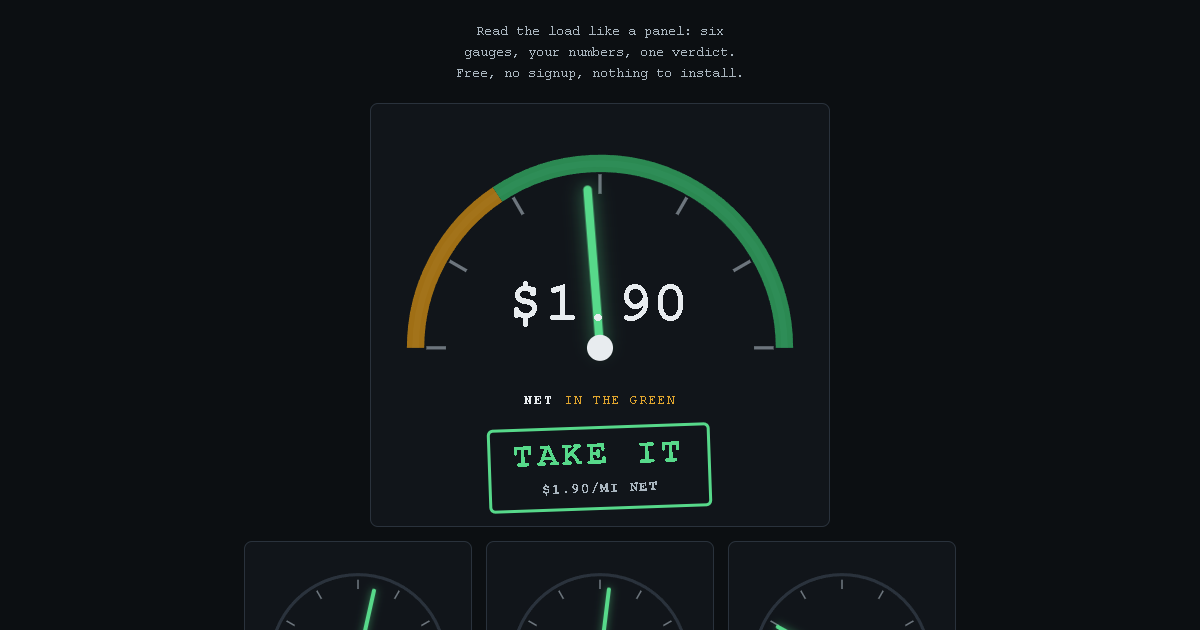
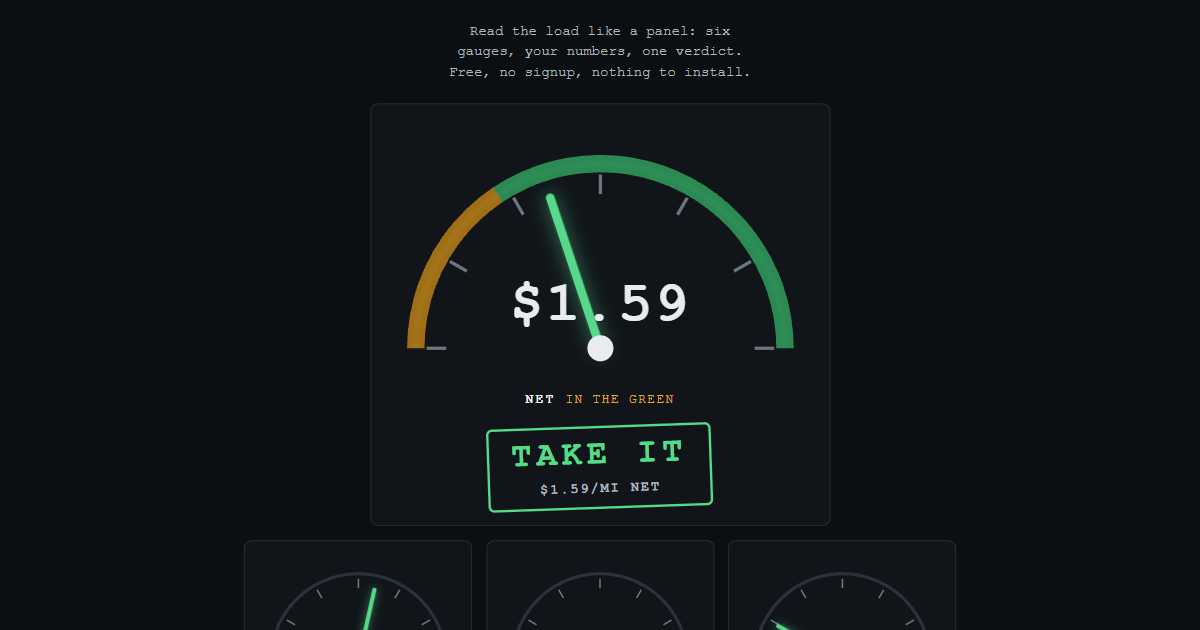
feat(hotshot): re-base page examples on $6.28 diesel (EIA, week of Oct 19, 2026)
Stacks work/hotshot-weight-rates-20261025 and work/hotshot-ifta-worksheet-20261025
(merge conflicts were additive: both appended tools/tests/sources; resolved
by keeping both, plus restoring two closing braces git dropped at the seam).

- Panel and guide example (540 mi @ $2.85, 80 deadhead, 8.4 mpg, $45 tolls,
  3%): fuel $463.52, net $984.31, $1.59/mi net (was $269.40 / $1,178.43 /
  $1.90 at $3.65). Flag text and fuel placeholder follow.
- Cost per mile: fuel $0.628/mi, all-in $1.678, minimum rate $2.41
  (was $2.09); panel MIN $/MI NET stays $1.30 (no fuel in it).
- Deadhead: net $0.92/mi at 150 empty miles, break-even 37 empty miles
  (was $1.18 and 109).
- Prefilled fuel on tool pages is 6.28; the "$3.65 example" caveats become
  a one-line EIA citation.
- hotshot/og.png re-shot from the live panel at the new example ($1.59,
  TAKE IT), 1200x630.
- IFTA worksheet linked from the panel and every tool page's MORE TOOLS.
- Tests: page-printed examples pinned to the engine at PAGE_DIESEL = 6.28,
  and a guard that the old $3.65 example can't come back on the panel or
  guide. Engine goldens stay at $3.65 (they test the math, not the pages).

diff --git a/hotshot/cost-per-mile/index.html b/hotshot/cost-per-mile/index.html
@@ -69,7 +69,7 @@
         <legend>PER MILE</legend>
         <div class="mini">
           <label for="fuelPrice">FUEL $/GAL</label>
-          <input id="fuelPrice" name="fuelPrice" type="number" inputmode="decimal" step="any" min="0" value="3.65" required>
+          <input id="fuelPrice" name="fuelPrice" type="number" inputmode="decimal" step="any" min="0" value="6.28" required>
         </div>
         <div class="mini">
           <label for="truckMpg">TRUCK MPG</label>
@@ -113,22 +113,22 @@
 
     <section class="how">
       <h2>The math, printed</h2>
-      <p class="example-label">EXAMPLE - $1,200 truck, $1,100 insurance, $450 trailer, $250 phone/ELD/boards, $200 other; 8,000 mi a month; $3.65 fuel at 10 mpg; $0.15/mi maintenance and tires; $0.50/mi driver pay; 20% deadhead; $0.25/mi profit:</p>
-      <p class="fine">Example fuel is $3.65 a gallon. The U.S. average on-highway diesel price was $6.28 in the week of Oct 19, 2026 (<a href="https://www.eia.gov/petroleum/gasdiesel/">EIA</a>), so type the price you actually pay.</p>
+      <p class="example-label">EXAMPLE - $1,200 truck, $1,100 insurance, $450 trailer, $250 phone/ELD/boards, $200 other; 8,000 mi a month; $6.28 fuel at 10 mpg; $0.15/mi maintenance and tires; $0.50/mi driver pay; 20% deadhead; $0.25/mi profit:</p>
+      <p class="fine">Example fuel is $6.28 a gallon, the U.S. average on-highway diesel price for the week of Oct 19, 2026 (<a href="https://www.eia.gov/petroleum/gasdiesel/">EIA</a>). Type the price you actually pay.</p>
       <div class="worked">
         <p><span>Fixed costs per month</span><span>$3,200.00</span></p>
         <p><span>Fixed cost per mile - $3,200 / 8,000 mi</span><span>$0.400</span></p>
-        <p><span>Fuel per mile - $3.65 / 10 mpg</span><span>$0.365</span></p>
+        <p><span>Fuel per mile - $6.28 / 10 mpg</span><span>$0.628</span></p>
         <p><span>Maintenance and tires</span><span>$0.150</span></p>
         <p><span>Driver pay</span><span>$0.500</span></p>
-        <p><span>Variable cost per mile</span><span>$1.015</span></p>
-        <p class="worked-net"><span>All-in cost per mile</span><span>$1.415</span></p>
-        <p><span>Plus profit - ($1.415 + $0.250) / (1 - 20%)</span><span>$2.081</span></p>
-        <p class="key"><span>Minimum rate per loaded mile, rounded up</span><span>$2.09</span></p>
+        <p><span>Variable cost per mile</span><span>$1.278</span></p>
+        <p class="worked-net"><span>All-in cost per mile</span><span>$1.678</span></p>
+        <p><span>Plus profit - ($1.678 + $0.250) / (1 - 20%)</span><span>$2.410</span></p>
+        <p class="key"><span>Minimum rate per loaded mile, rounded up</span><span>$2.41</span></p>
         <p class="key"><span>Panel MIN $/MI NET - $0.400 + $0.150 + $0.500 + $0.250</span><span>$1.30</span></p>
       </div>
       <p>Fixed costs are spread over every mile you drive, loaded or empty, because the truck payment doesn't care which. Deadhead is the share of total miles that are empty; the minimum rate divides by the loaded share, since only loaded miles get paid.</p>
-      <p><strong>Which number goes in the panel?</strong> Type <code>$1.30</code> into the panel's MIN $/MI NET, not $1.415. The panel already subtracts fuel, tolls and factoring from each load before it compares, so its minimum is your cost per mile without fuel, plus profit: fixed + maintenance + driver pay + profit. Both are per total mile, so they line up. If you factor, quote a little above the minimum rate: the panel also takes your factoring percent off the top, and this calculator doesn't know it.</p>
+      <p><strong>Which number goes in the panel?</strong> Type <code>$1.30</code> into the panel's MIN $/MI NET, not $1.678. The panel already subtracts fuel, tolls and factoring from each load before it compares, so its minimum is your cost per mile without fuel, plus profit: fixed + maintenance + driver pay + profit. Both are per total mile, so they line up. If you factor, quote a little above the minimum rate: the panel also takes your factoring percent off the top, and this calculator doesn't know it.</p>
       <p class="fine">The minimum rate per loaded mile leaves out tolls and factoring, because they change load to load. The <a href="../index.html">load panel</a> counts them. Minimums round up to the cent, and the rate is worked out from the rounded panel minimum, so a load at the quoted rate and your usual deadhead clears the panel (before tolls and factoring).</p>
     </section>
 
@@ -159,6 +159,7 @@
         <li><a href="../factoring-fee/index.html">Factoring cost<span>The real fee on an invoice, flat fees included.</span></a></li>
         <li><a href="../deadhead/index.html">Deadhead miles<span>What the empty miles cost and how many a load can carry.</span></a></li>
         <li><a href="../weight/index.html">Weight / CDL<span>Your ratings against the 26,001 lb CDL line.</span></a></li>
+        <li><a href="../ifta/index.html">IFTA worksheet<span>Quarter math by state, plus a free Excel download.</span></a></li>
         <li><a href="../rates-2026/index.html">2026 rates<span>Rates per mile from dated sources, and what's left after costs.</span></a></li>
       </ul>
     </section>

diff --git a/hotshot/deadhead/index.html b/hotshot/deadhead/index.html
@@ -59,7 +59,7 @@
         <legend>TRUCK + MINIMUM</legend>
         <div class="mini">
           <label for="fuelPrice">FUEL $/GAL</label>
-          <input id="fuelPrice" name="fuelPrice" type="number" inputmode="decimal" step="any" min="0" value="3.65" required>
+          <input id="fuelPrice" name="fuelPrice" type="number" inputmode="decimal" step="any" min="0" value="6.28" required>
         </div>
         <div class="mini">
           <label for="truckMpg">TRUCK MPG</label>
@@ -85,20 +85,20 @@
 
     <section class="how">
       <h2>The math, printed</h2>
-      <p class="example-label">EXAMPLE - 420 loaded mi at $2.10/loaded mi, 150 deadhead mi, $3.65 fuel at 10 mpg, $1.30/mi minimum:</p>
-      <p class="fine">Example fuel is $3.65 a gallon. The U.S. average on-highway diesel price was $6.28 in the week of Oct 19, 2026 (<a href="https://www.eia.gov/petroleum/gasdiesel/">EIA</a>), so type the price you actually pay.</p>
+      <p class="example-label">EXAMPLE - 420 loaded mi at $2.10/loaded mi, 150 deadhead mi, $6.28 fuel at 10 mpg, $1.30/mi minimum:</p>
+      <p class="fine">Example fuel is $6.28 a gallon, the U.S. average on-highway diesel price for the week of Oct 19, 2026 (<a href="https://www.eia.gov/petroleum/gasdiesel/">EIA</a>). Type the price you actually pay.</p>
       <div class="worked">
         <p><span>Gross - 420 x $2.10</span><span>$882.00</span></p>
         <p><span>Deadhead share - 150 / 570 total mi</span><span>26.3%</span></p>
-        <p><span>Fuel for the empty miles - 150 x $3.65 / 10 mpg</span><span>$54.75</span></p>
-        <p><span>Fuel for the whole trip - 570 x $0.365</span><span>$208.05</span></p>
+        <p><span>Fuel for the empty miles - 150 x $6.28 / 10 mpg</span><span>$94.20</span></p>
+        <p><span>Fuel for the whole trip - 570 x $0.628</span><span>$357.96</span></p>
         <p><span>Rate per loaded mile</span><span>$2.10</span></p>
         <p><span>Rate per total mile - $882 / 570</span><span>$1.55</span></p>
-        <p><span>Net after fuel - $882 - $208.05</span><span>$673.95</span></p>
-        <p class="worked-net"><span>Net after fuel per total mile</span><span>$1.18</span></p>
-        <p class="key"><span>Break-even - $882 / ($1.30 + $0.365) - 420</span><span>109 empty miles</span></p>
+        <p><span>Net after fuel - $882 - $357.96</span><span>$524.04</span></p>
+        <p class="worked-net"><span>Net after fuel per total mile</span><span>$0.92</span></p>
+        <p class="key"><span>Break-even - $882 / ($1.30 + $0.628) - 420</span><span>37 empty miles</span></p>
       </div>
-      <p>At 150 empty miles this load nets $1.18 per mile driven, under the $1.30 minimum. It carries up to 109 empty miles before it drops below. The break-even is the most total miles the gross can cover at your minimum plus fuel, minus the loaded miles, rounded down to a whole mile.</p>
+      <p>At 150 empty miles this load nets $0.92 per mile driven, well under the $1.30 minimum. At $6.28 diesel it carries only 37 empty miles before it drops below. The break-even is the most total miles the gross can cover at your minimum plus fuel, minus the loaded miles, rounded down to a whole mile.</p>
       <p>Deadhead % here is empty miles divided by total miles (loaded + empty). Some people divide by loaded miles instead, which gives a bigger number for the same trip - 150 / 420 is 35.7%.</p>
       <p class="fine">Net here is after fuel only, per total mile - the same basis as the panel's MIN $/MI NET. Tolls and factoring are left out; run the load through the <a href="../index.html">load panel</a> for the full take-it-or-pass with those counted.</p>
     </section>
@@ -130,6 +130,7 @@
         <li><a href="../cost-per-mile/index.html">Cost per mile<span>Your all-in cost per mile and minimum rate.</span></a></li>
         <li><a href="../factoring-fee/index.html">Factoring cost<span>The real fee on an invoice, flat fees included.</span></a></li>
         <li><a href="../weight/index.html">Weight / CDL<span>Your ratings against the 26,001 lb CDL line.</span></a></li>
+        <li><a href="../ifta/index.html">IFTA worksheet<span>Quarter math by state, plus a free Excel download.</span></a></li>
         <li><a href="../rates-2026/index.html">2026 rates<span>Rates per mile from dated sources, and what's left after costs.</span></a></li>
       </ul>
     </section>

diff --git a/hotshot/index.html b/hotshot/index.html
@@ -50,7 +50,7 @@
         <p class="placard">NET <span class="placard-note" id="net-state">SET YOUR NUMBERS</span></p>
         <div class="flag" id="flag" hidden>
           <span class="flag-word" id="flag-word">TAKE IT</span>
-          <span class="flag-sub" id="flag-sub">$1.90/MI NET</span>
+          <span class="flag-sub" id="flag-sub">$1.59/MI NET</span>
         </div>
       </section>
 
@@ -79,7 +79,7 @@
           </svg>
         </div>
         <p class="placard">FUEL <span class="unit">$/GAL</span></p>
-        <input id="fuelPrice" name="fuelPrice" type="number" inputmode="decimal" step="0.01" min="0" placeholder="3.65" required aria-label="Fuel price per gallon">
+        <input id="fuelPrice" name="fuelPrice" type="number" inputmode="decimal" step="0.01" min="0" placeholder="6.28" required aria-label="Fuel price per gallon">
       </section>
 
       <section class="gauge" aria-label="Deadhead gauge">
@@ -159,16 +159,16 @@
 
     <section class="how">
       <h2>The math, on the placard</h2>
-      <p class="example-label">EXAMPLE - 540 mi at $2.85/mi, 80 mi deadhead, $3.65 fuel, 8.4 mpg, $45 tolls, 3% factoring:</p>
+      <p class="example-label">EXAMPLE - 540 mi at $2.85/mi, 80 mi deadhead, $6.28 fuel, 8.4 mpg, $45 tolls, 3% factoring:</p>
       <div class="worked">
         <p><span>Gross linehaul</span><span>$1,539.00</span></p>
-        <p><span>Fuel - 620 mi / 8.4 mpg x $3.65</span><span>-$269.40</span></p>
+        <p><span>Fuel - 620 mi / 8.4 mpg x $6.28</span><span>-$463.52</span></p>
         <p><span>Tolls</span><span>-$45.00</span></p>
         <p><span>Factoring - 3% of gross</span><span>-$46.17</span></p>
-        <p class="worked-net"><span>Net to truck</span><span>$1,178.43</span></p>
-        <p><span>Net per total mile</span><span>$1.90/mi</span></p>
+        <p class="worked-net"><span>Net to truck</span><span>$984.31</span></p>
+        <p><span>Net per total mile</span><span>$1.59/mi</span></p>
       </div>
-      <p class="fine">Example fuel is $3.65; the U.S. average diesel price was $6.28 in the week of Oct 19, 2026 (<a href="https://www.eia.gov/petroleum/gasdiesel/">EIA</a>), so enter what you pay. Fuel, tolls, and factoring are counted - the costs that change with the load. Truck payment, insurance, and maintenance live in your MIN $/MI. Set it once; the needle tells you the rest.</p>
+      <p class="fine">Example fuel is $6.28, the U.S. average diesel price for the week of Oct 19, 2026 (<a href="https://www.eia.gov/petroleum/gasdiesel/">EIA</a>); enter what you pay. Fuel, tolls, and factoring are counted - the costs that change with the load. Truck payment, insurance, and maintenance live in your MIN $/MI. Set it once; the needle tells you the rest.</p>
     </section>
 
     <section class="who">
@@ -188,6 +188,7 @@
         <li><a href="factoring-fee/index.html">Factoring cost<span>The real fee on an invoice, flat fees included.</span></a></li>
         <li><a href="deadhead/index.html">Deadhead miles<span>What the empty miles cost and how many a load can carry.</span></a></li>
         <li><a href="weight/index.html">Weight / CDL<span>Your ratings against the 26,001 lb CDL line.</span></a></li>
+        <li><a href="ifta/index.html">IFTA worksheet<span>Quarter math by state, plus a free Excel download.</span></a></li>
         <li><a href="rates-2026/index.html">2026 rates<span>Rates per mile from dated sources, and what's left after costs.</span></a></li>
       </ul>
     </section>

diff --git a/tests/engine.test.js b/tests/engine.test.js
@@ -684,8 +684,23 @@ function hotshotPage(slug) {
   return fs.readFileSync(path.join(__dirname, '..', 'hotshot', slug, 'index.html'), 'utf8');
 }
 
+// Pages print their examples at one dated diesel price; the engine goldens above stay at $3.65.
+const PAGE_DIESEL = 6.28; // EIA U.S. average on-highway diesel, week of Oct 19, 2026
+
+test('hotshot panel and guide print the engine example at the page diesel price', () => {
+  const v = compute('hotshot-load', { ratePerMile: 2.85, miles: 540, deadheadMiles: 80, fuelPrice: PAGE_DIESEL, truckMpg: 8.4, tolls: 45, factoringPct: 3, minNetPerMile: 1.25 }).values;
+  assert.deepEqual([v.fuelCost, v.factoringFee, v.netToTruck, v.netPerTotalMile, v.verdict], [463.52, 46.17, 984.31, 1.59, 'take']);
+  const panel = fs.readFileSync(path.join(__dirname, '..', 'hotshot', 'index.html'), 'utf8');
+  const guide = fs.readFileSync(path.join(__dirname, '..', 'hotshot', 'guides', 'how-to-start-hotshot-trucking.html'), 'utf8');
+  for (const [name, html] of [['panel', panel], ['guide', guide]]) {
+    ['$6.28', '-$463.52', '-$46.17', '$984.31', '$1.59/mi'].forEach((t) => assert.ok(html.includes(t), name + ' missing ' + t));
+    assert.ok(!html.includes('$3.65') && !html.includes('1,178.43') && !html.includes('$1.90'), name + ' still prints the old $3.65 example');
+  }
+  assert.ok(panel.includes('$1.59/MI NET'), 'panel flag');
+});
+
 test('hotshot pages print the engine worked examples', () => {
-  const c = compute('hotshot-cost-per-mile', CPM_EXAMPLE).values;
+  const c = compute('hotshot-cost-per-mile', { ...CPM_EXAMPLE, fuelPrice: PAGE_DIESEL }).values;
   const cpm = hotshotPage('cost-per-mile');
   [usd(c.fixedMonthly), usd(c.fixedPerMile, 3), usd(c.fuelPerMile, 3), usd(c.variablePerMile, 3), usd(c.costPerMile, 3),
     usd(c.minRatePerLoadedMile), usd(c.panelMinNetPerMile), usd(c.minRatePerLoadedMileExact, 3)]
@@ -697,7 +712,7 @@ test('hotshot pages print the engine worked examples', () => {
     usd(f.monthlyRevenue), usd(f.perPointCost)]
     .forEach((s) => assert.ok(fac.includes(s), 'factoring-fee missing ' + s));
 
-  const d = compute('hotshot-deadhead', DEADHEAD_EXAMPLE).values;
+  const d = compute('hotshot-deadhead', { ...DEADHEAD_EXAMPLE, fuelPrice: PAGE_DIESEL }).values;
   const dh = hotshotPage('deadhead');
   [d.deadheadPct + '%', usd(d.deadheadFuelCost), usd(d.ratePerLoadedMile), usd(d.ratePerTotalMile), usd(d.netAfterFuel),
     usd(d.netPerTotalMile), d.breakEvenDeadheadMiles + ' empty miles']

diff --git a/hotshot/guides/how-to-start-hotshot-trucking.html b/hotshot/guides/how-to-start-hotshot-trucking.html
@@ -84,16 +84,16 @@
 
     <section id="step-7">
       <h2>7. The math that decides everything</h2>
-      <p>Here's a real-shaped example, the same one on the panel: 540 loaded miles at $2.85/mi, 80 deadhead miles, $3.65/gal fuel at 8.4 mpg, $45 in tolls, 3% factoring.</p>
+      <p>Here's a real-shaped example, the same one on the panel: 540 loaded miles at $2.85/mi, 80 deadhead miles, $6.28/gal fuel at 8.4 mpg (the U.S. average diesel price for the week of Oct 19, 2026, per <a href="https://www.eia.gov/petroleum/gasdiesel/">EIA</a>), $45 in tolls, 3% factoring.</p>
       <div class="worked">
         <p><span>Gross linehaul</span><span>$1,539.00</span></p>
-        <p><span>Fuel - 620 total mi / 8.4 mpg x $3.65</span><span>-$269.40</span></p>
+        <p><span>Fuel - 620 total mi / 8.4 mpg x $6.28</span><span>-$463.52</span></p>
         <p><span>Tolls</span><span>-$45.00</span></p>
         <p><span>Factoring - 3% of gross</span><span>-$46.17</span></p>
-        <p class="worked-net"><span>Net to truck</span><span>$1,178.43</span></p>
-        <p><span>Net per total mile</span><span>$1.90/mi</span></p>
+        <p class="worked-net"><span>Net to truck</span><span>$984.31</span></p>
+        <p><span>Net per total mile</span><span>$1.59/mi</span></p>
       </div>
-      <p>Whether $1.90/mi net is good depends on one number: your minimum - the per-mile figure that covers insurance, truck payment, maintenance, and your paycheck. Set it honestly, enter it once, and the panel stamps every load TAKE IT or PASS.</p>
+      <p>Whether $1.59/mi net is good depends on one number: your minimum - the per-mile figure that covers insurance, truck payment, maintenance, and your paycheck. Set it honestly, enter it once, and the panel stamps every load TAKE IT or PASS.</p>
       <p>To set it, run your monthly bills through the <a href="../cost-per-mile/index.html">cost per mile calculator</a>: it splits fixed and per-mile costs and gives the MIN $/MI NET to enter, with fuel left out because the panel already subtracts it per load.</p>
       <p><a class="guide-cta" href="../index.html">Run a load through the panel - free, no signup</a></p>
     </section>

diff --git a/hotshot/weight/index.html b/hotshot/weight/index.html
@@ -143,6 +143,7 @@
         <li><a href="../cost-per-mile/index.html">Cost per mile<span>Your all-in cost per mile and minimum rate.</span></a></li>
         <li><a href="../factoring-fee/index.html">Factoring cost<span>The real fee on an invoice, flat fees included.</span></a></li>
         <li><a href="../deadhead/index.html">Deadhead miles<span>What the empty miles cost and how many a load can carry.</span></a></li>
+        <li><a href="../ifta/index.html">IFTA worksheet<span>Quarter math by state, plus a free Excel download.</span></a></li>
         <li><a href="../rates-2026/index.html">2026 rates<span>Rates per mile from dated sources, and what's left after costs.</span></a></li>
       </ul>
     </section>

diff --git a/hotshot/factoring-fee/index.html b/hotshot/factoring-fee/index.html
@@ -126,6 +126,7 @@
         <li><a href="../cost-per-mile/index.html">Cost per mile<span>Your all-in cost per mile and minimum rate.</span></a></li>
         <li><a href="../deadhead/index.html">Deadhead miles<span>What the empty miles cost and how many a load can carry.</span></a></li>
         <li><a href="../weight/index.html">Weight / CDL<span>Your ratings against the 26,001 lb CDL line.</span></a></li>
+        <li><a href="../ifta/index.html">IFTA worksheet<span>Quarter math by state, plus a free Excel download.</span></a></li>
         <li><a href="../rates-2026/index.html">2026 rates<span>Rates per mile from dated sources, and what's left after costs.</span></a></li>
       </ul>
     </section>
